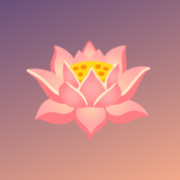
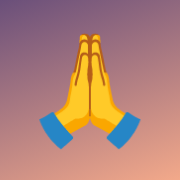
아이콘을 합장(🙏)으로 변경
Claude-Session: https://claude.ai/code/session_01Hp55BpZgXjR1k6FsWJzZhX

Changed region(s): [[0.1389, 0.1667, 0.8333, 0.8333]]

diff --git a/index.html b/index.html
@@ -143,7 +143,7 @@
 </style>
 </head>
 <body>
-<div id="loader"><div class="mark">🪷</div><h1>숨</h1><p>요가원을 여는 중</p><div class="dot"></div></div>
+<div id="loader"><div class="mark">🙏</div><h1>숨</h1><p>요가원을 여는 중</p><div class="dot"></div></div>
 
 <div id="top">
   <div id="brand" class="pill">
